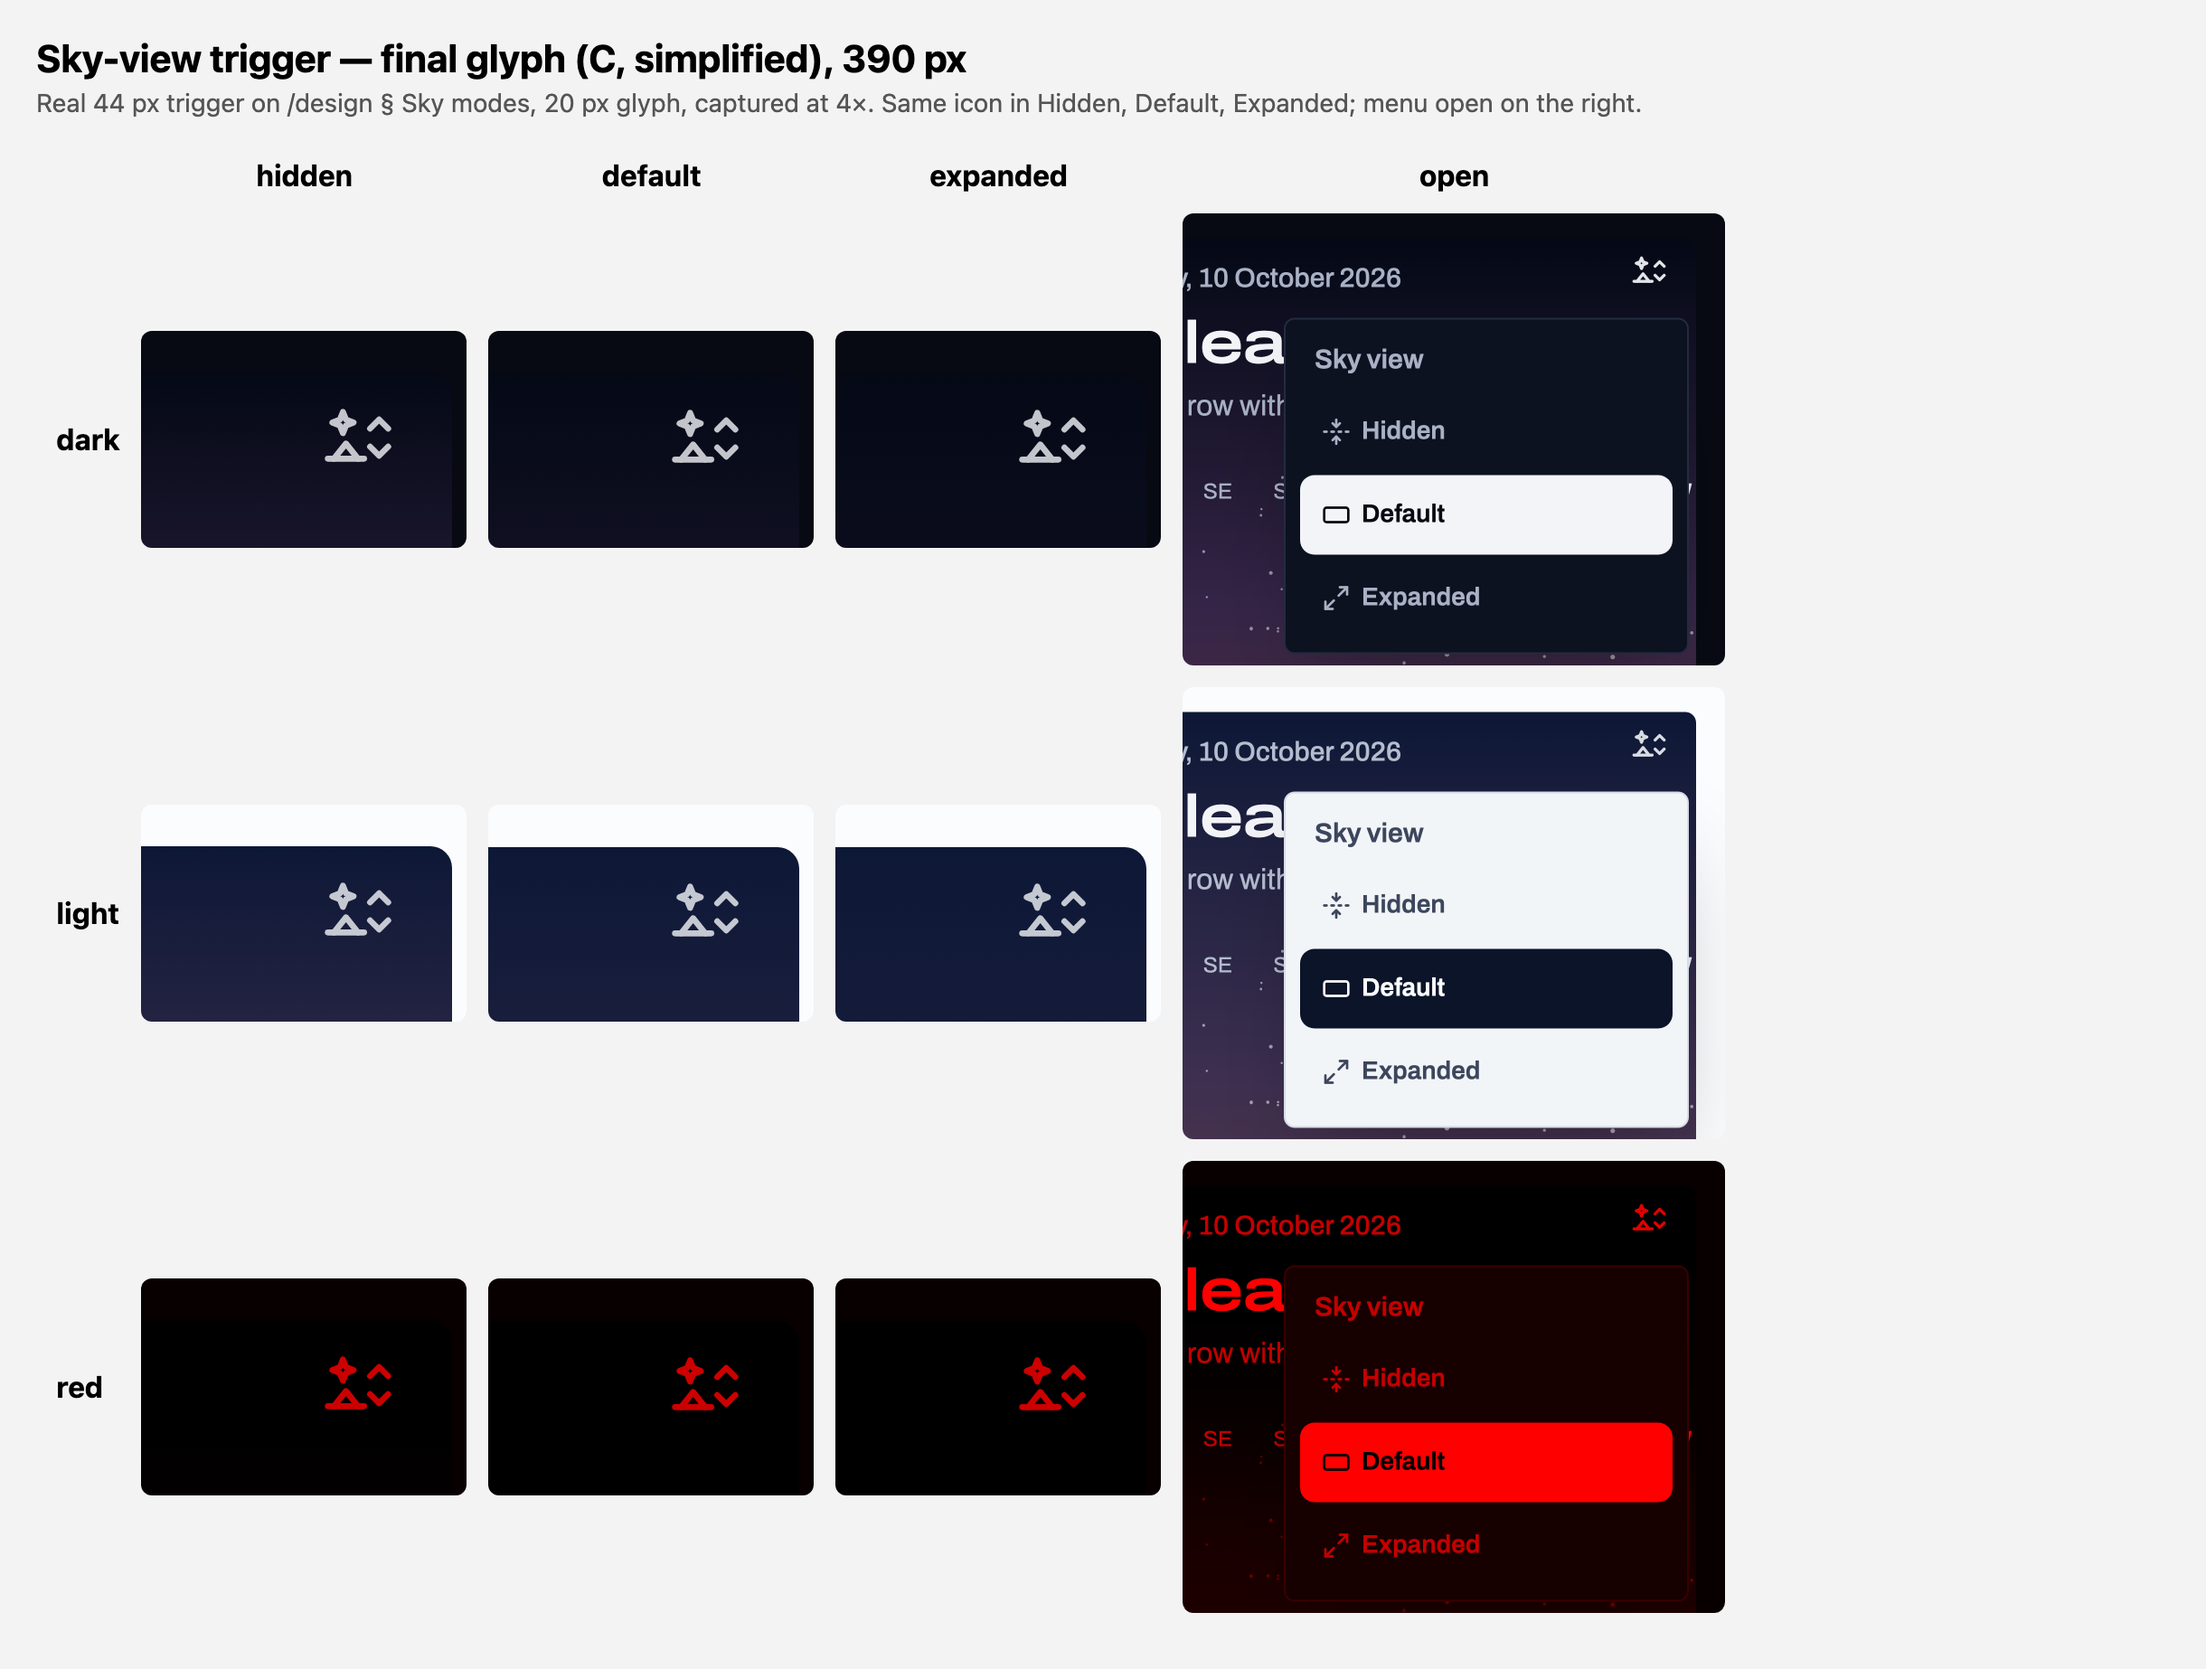
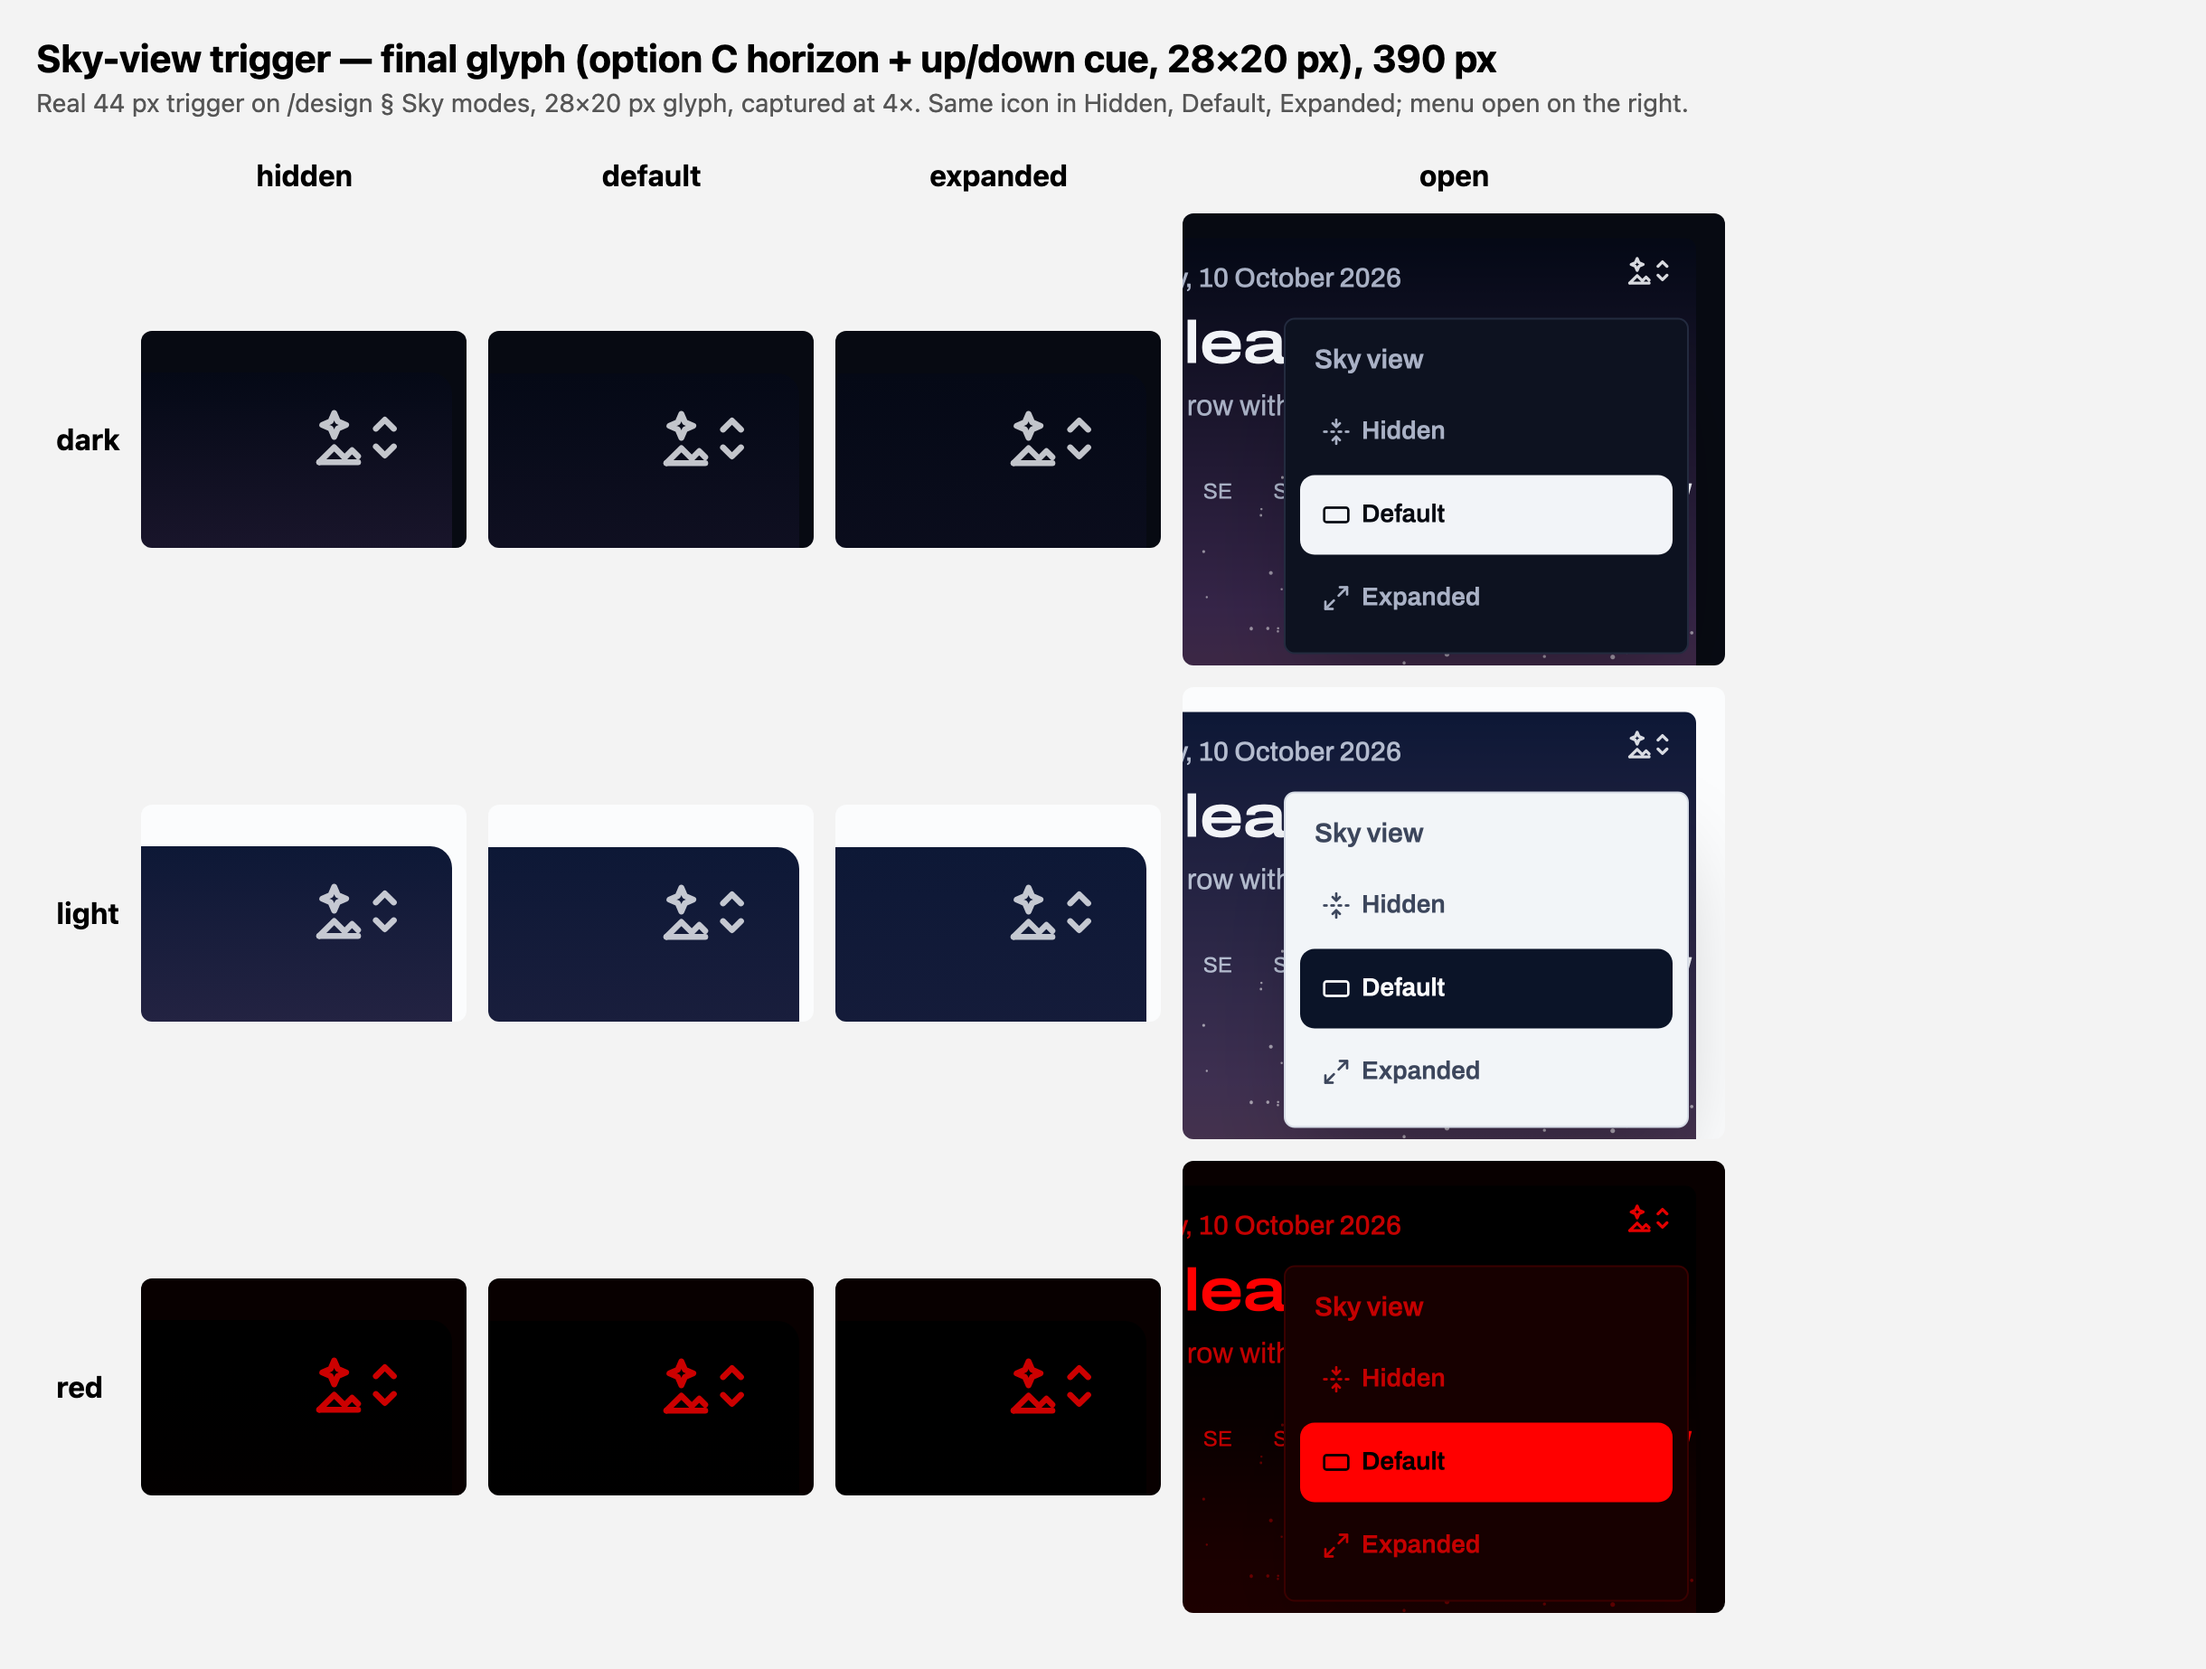
feat(ui-sky-mode-trigger): owner's variant 2, option C's horizon plus the cue at 28x20 px
The owner rejected the simplified 20 px glyph on #222 and picked variant 2 of
evidence/trigger-horizon-variants.png: option C's star over the hills exactly as
drawn, plus the up/down cue, on a 34x24 grid drawn at 28x20 px (h-5 w-7) inside
the 44 px button. SkyViewIcon is now a plain lucide-style SVG component, since
createLucideIcon fixes a 24x24 grid. final-trigger-390.png recaptured.

diff --git a/src/components/tonight/sky-mode-control.tsx b/src/components/tonight/sky-mode-control.tsx
@@ -1,5 +1,5 @@
-import { createLucideIcon, FoldVertical, Maximize2, RectangleHorizontal, type LucideIcon } from "lucide-react";
-import { useEffect, useId, useRef } from "react";
+import { FoldVertical, Maximize2, RectangleHorizontal, type LucideIcon } from "lucide-react";
+import { useEffect, useId, useRef, type ComponentProps } from "react";
 import { SegmentedGroup } from "@/components/ui/segmented";
 import { getMessages } from "@/i18n";
 import { SKY_MODES, type Locale, type SkyMode, type Theme } from "@/lib/preferences";
@@ -28,16 +28,32 @@ const MODE_ICONS: Record<SkyMode, LucideIcon> = {
 };
 
 /**
- * "Change the sky view", lucide-style (24 grid, stroke 2, round caps), simplified for its 20 px size: a star over one
- * peak on the horizon, and the up / down cue for the band's height. Read by shape alone, so red mode needs no hue.
+ * "Change the sky view", lucide-style (stroke 2, round caps): option C's star over the hills on the horizon (owner, on
+ * #222: exactly as drawn there), and the up / down cue for the band's height beside it. The grid is 34 x 24, drawn at
+ * 28 x 20 px (`h-5 w-7`), so the cue gets its own room instead of squeezing the horizon. Read by shape alone, so red
+ * mode needs no hue.
  */
-export const SkyViewIcon = createLucideIcon("sky-view", [
-  ["path", { d: "M7 3.5 8 6l2.5 1L8 8l-1 2.5L6 8 3.5 7 6 6z", key: "star" }],
-  ["path", { d: "M2 19h12", key: "horizon" }],
-  ["path", { d: "m4 19 4-5 4 5", key: "peak" }],
-  ["path", { d: "m16 9 3-3 3 3", key: "up" }],
-  ["path", { d: "m16 15 3 3 3-3", key: "down" }],
-]);
+export function SkyViewIcon({ className, ...props }: ComponentProps<"svg">) {
+  return (
+    <svg
+      xmlns="http://www.w3.org/2000/svg"
+      viewBox="0 0 34 24"
+      fill="none"
+      stroke="currentColor"
+      strokeWidth={2}
+      strokeLinecap="round"
+      strokeLinejoin="round"
+      className={cn("h-5 w-7", className)}
+      {...props}
+    >
+      <path d="M9 3.75l1.2 2.8L13 7.75 10.2 8.95 9 11.75 7.8 8.95 5 7.75l2.8-1.2z" />
+      <path d="m4 20.25 5-5 3.5 3.5L15 16.25l2 2" />
+      <path d="M4 20.25h13" />
+      <path d="m23 9 3-3 3 3" />
+      <path d="m23 15 3 3 3-3" />
+    </svg>
+  );
+}
 
 /** The trigger: a bare 44 px target like the pan chevrons, its face passed in so the contrast test covers it. */
 export const SKY_MODE_TRIGGER_CLASS =
@@ -124,7 +140,7 @@ export function SkyModeControl({ mode, locale, theme, onChoose, faceClassName, c
         data-sky-mode-trigger={mode}
       >
         <span className={faceClassName}>
-          <SkyViewIcon className="size-5" aria-hidden="true" />
+          <SkyViewIcon aria-hidden="true" />
         </span>
       </button>
       <div

diff --git a/context/changes/ui-sky-mode-trigger/change.md b/context/changes/ui-sky-mode-trigger/change.md
@@ -11,4 +11,4 @@ archived_at: null
 
 Owner follow-up to ui-sky-modes (archived 2026-10-17): the 44 px sky-mode trigger on Tonight's sky shows the current mode's icon, and in Default (`RectangleHorizontal`) it reads as a missing/unloaded SVG. Replace it with ONE fixed icon that says "change the sky view" (never the current state). The three icons inside the menu stay as they are. Step 1: 3-4 options rendered in place on the Tonight band (390/1440 px, dark/light/red, plus the open menu) in `evidence/`; the owner picks; step 2 implements.
 
-Owner picked C (2026-10-17, `evidence/trigger-icon-options.png`). Implemented as `SkyViewIcon` (`createLucideIcon`, in `sky-mode-control.tsx`), simplified for 20 px: a star, one peak on the horizon, the up/down cue (`evidence/final-trigger-390.png`). The accessible name stays "Sky view: <mode>" / "Widok nieba: <tryb>"; `data-sky-mode-trigger` still carries the mode. `tonight-sky-modes.spec.ts` pins the name and one icon across all six mode choices (proven red against the old per-mode icon).
+Owner picked C (2026-10-17, `evidence/trigger-icon-options.png`). First implemented simplified for 20 px; the owner rejected that on #222 and picked variant 2 of `evidence/trigger-horizon-variants.png`: option C's horizon exactly as drawn plus the up/down cue, on a 34 x 24 grid drawn at 28 x 20 px (`h-5 w-7`) in the 44 px button. `SkyViewIcon` is a plain lucide-style SVG component in `sky-mode-control.tsx` (`createLucideIcon` fixes a 24 x 24 grid). Final glyph: `evidence/final-trigger-390.png`. The accessible name stays "Sky view: <mode>" / "Widok nieba: <tryb>"; `data-sky-mode-trigger` still carries the mode. `tonight-sky-modes.spec.ts` pins the name and one icon across all six mode choices (proven red against the old per-mode icon).
